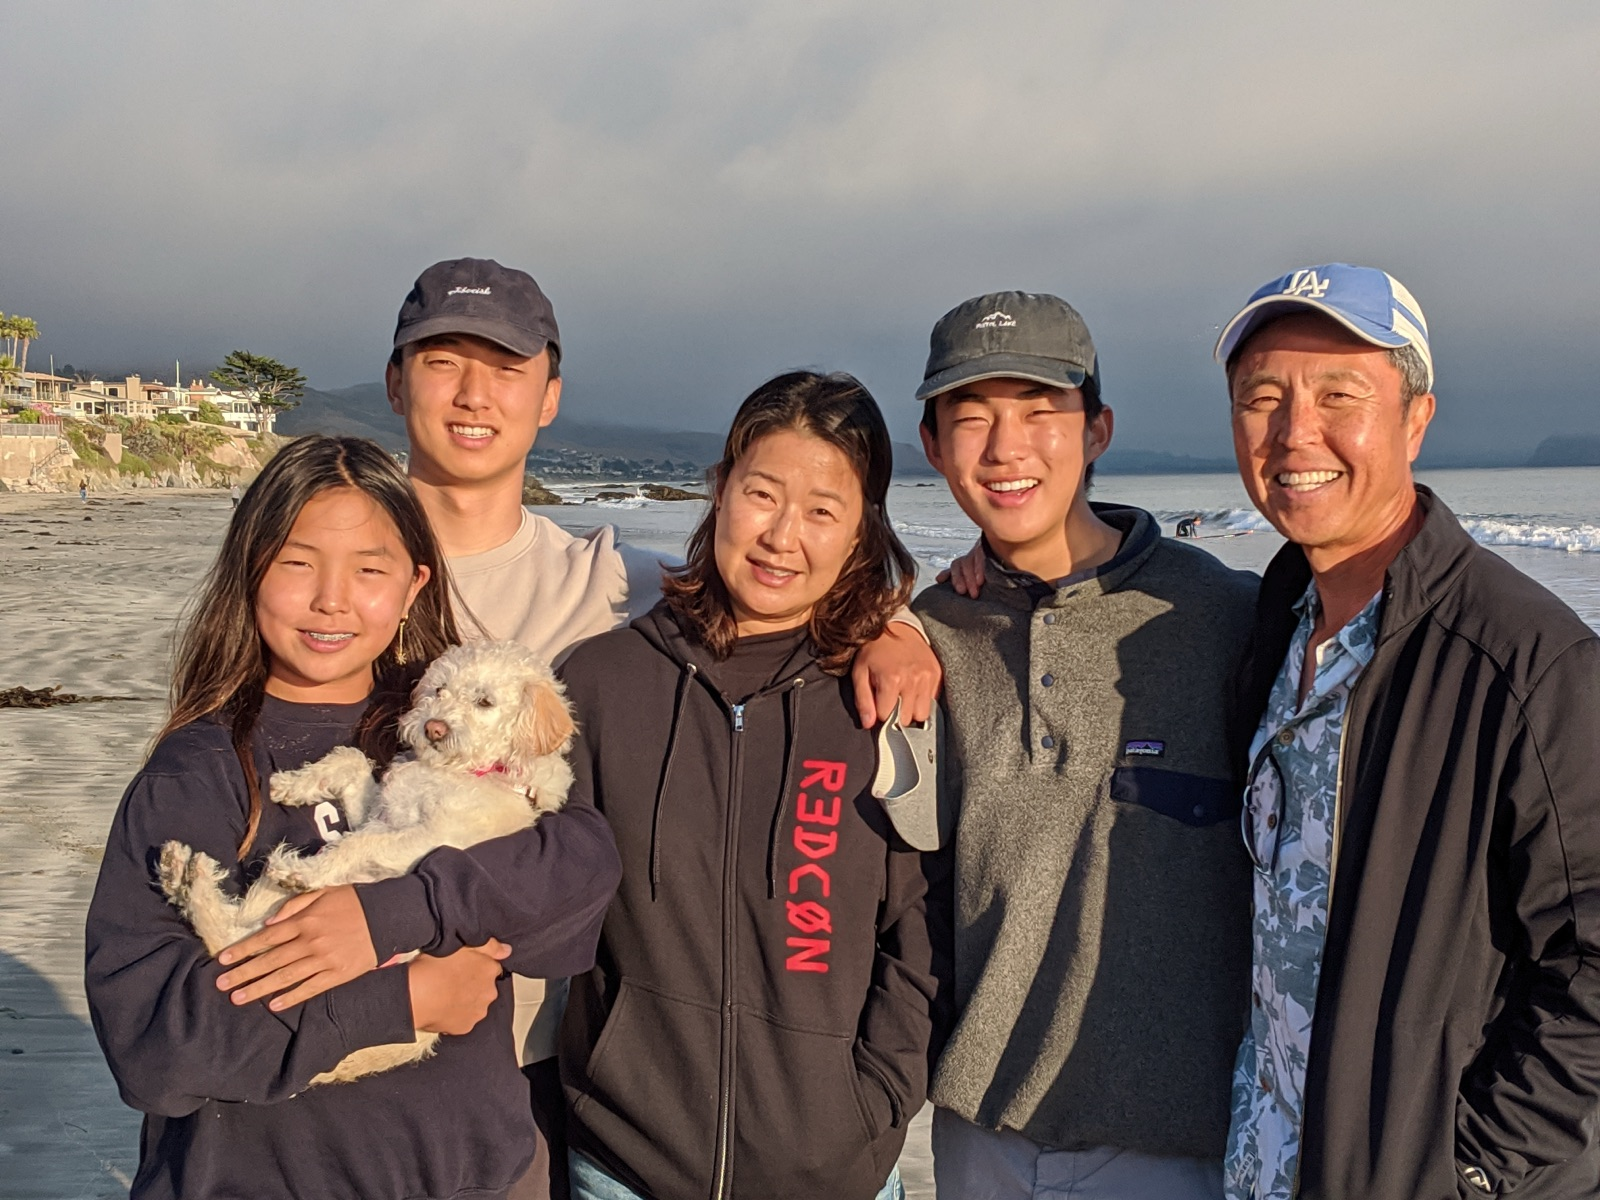
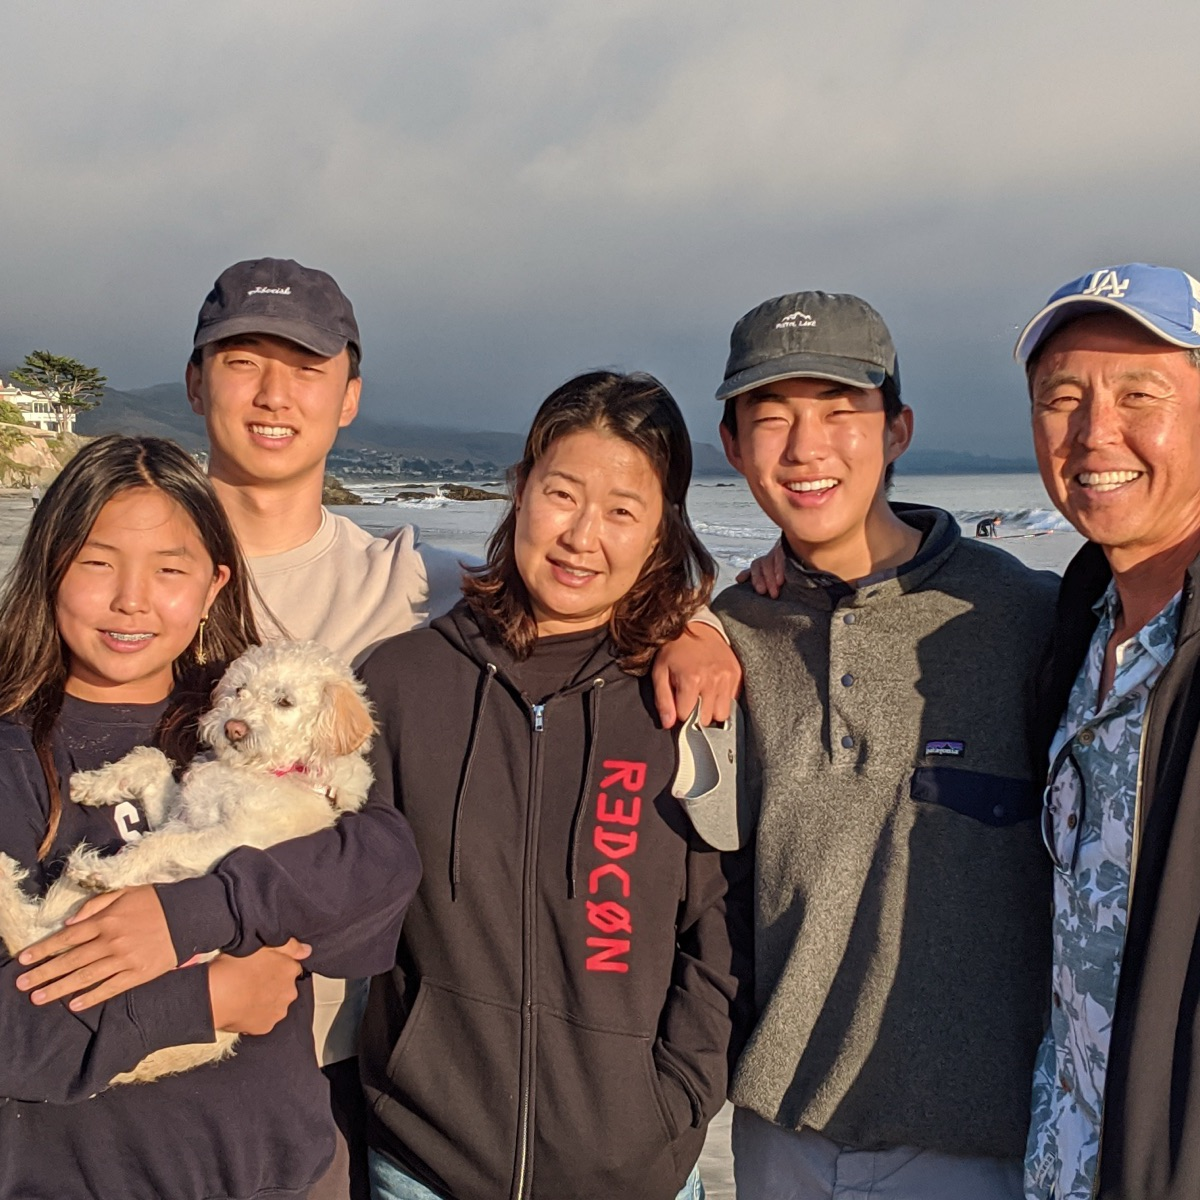
Crop wedge photos to squares, contain blur overflow, and update snapshots

diff --git a/apps/web/app/page.tsx b/apps/web/app/page.tsx
@@ -74,10 +74,10 @@ function photo(src: string, width: number, height: number): ImageSource {
 
 const images: WedgesImages = [
   [
-    photo("/wedges/background.jpg", 1600, 1200),
-    photo("/wedges/dreams.jpg", 1200, 1600),
-    photo("/wedges/interests.jpg", 1600, 900),
-    photo("/wedges/sports.jpg", 1600, 1200),
+    photo("/wedges/background.jpg", 1200, 1200),
+    photo("/wedges/dreams.jpg", 1200, 1200),
+    photo("/wedges/interests.jpg", 900, 900),
+    photo("/wedges/sports.jpg", 1200, 1200),
   ],
   Array.from({ length: 4 }, () => placeholder),
 ];

diff --git a/packages/design-system/src/molecules/wedge.tsx b/packages/design-system/src/molecules/wedge.tsx
@@ -27,7 +27,7 @@ export function Wedge({
     <>
       <div
         className={mergeClasses(
-          "absolute inset-0 bg-surface-container-lowest",
+          "absolute inset-0 overflow-hidden bg-surface-container-lowest",
           className,
         )}
         style={{ clipPath: `path("${path}")` }}
